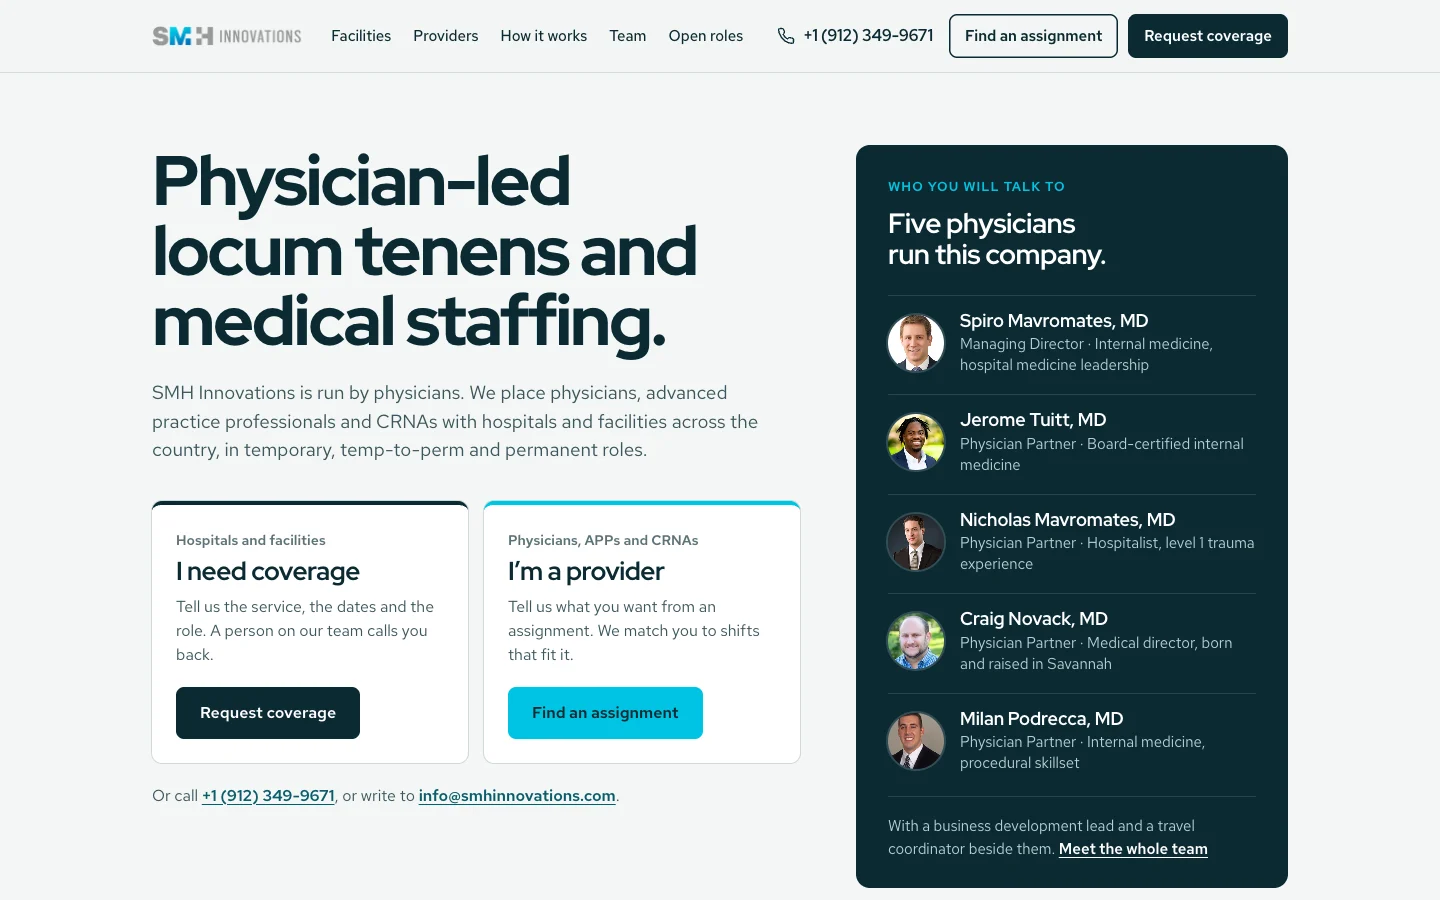
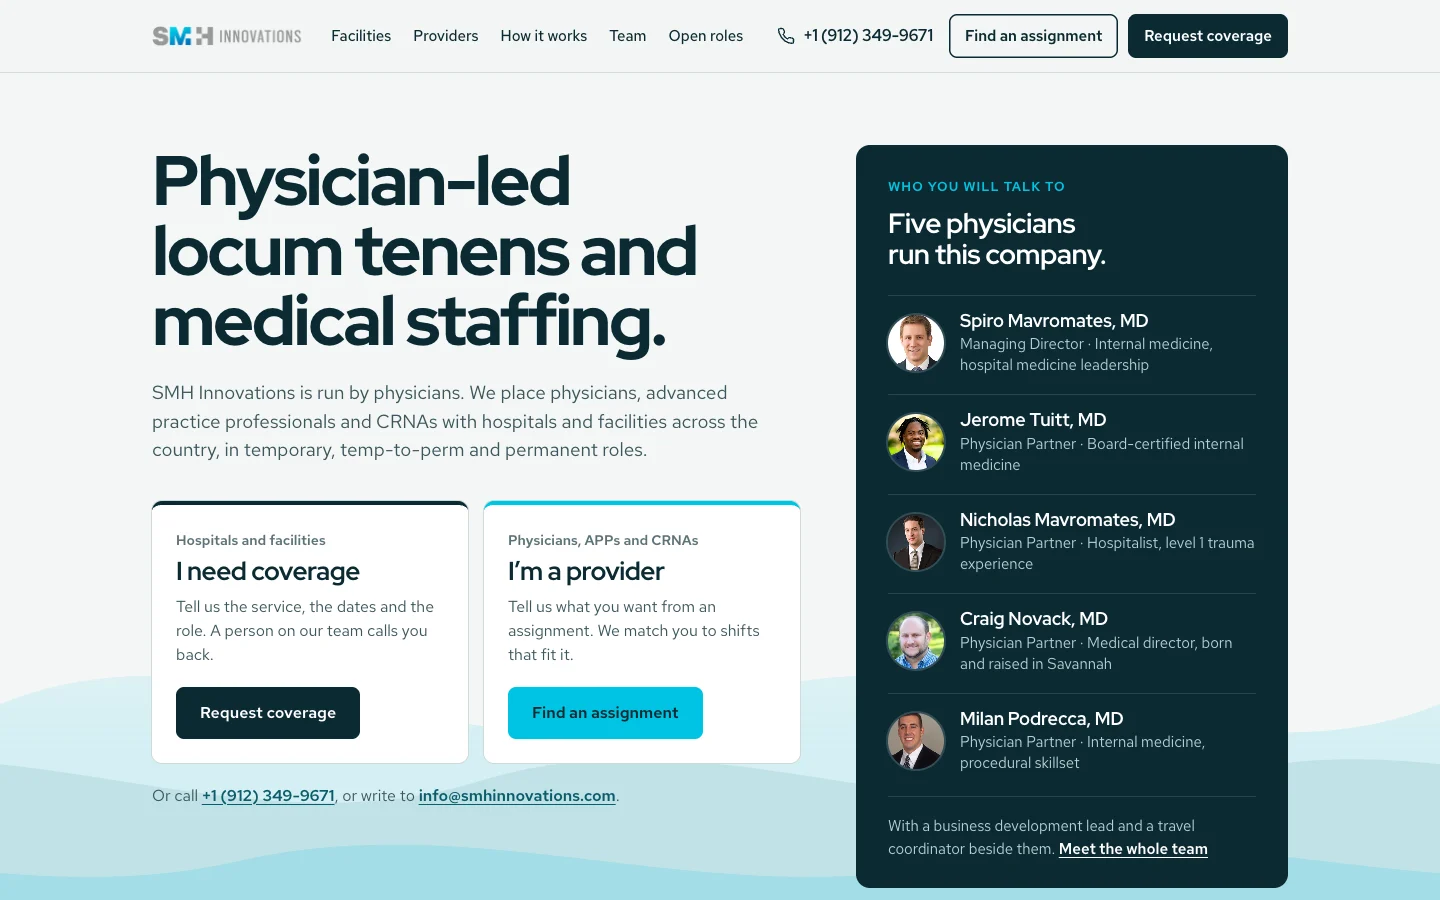
Add animated brand-colour waves behind the proposal hero

Changed region(s): [[0.0, 0.7467, 1.0, 1.0]]

diff --git a/audits/smhinnovations/site/site.css b/audits/smhinnovations/site/site.css
@@ -84,7 +84,17 @@ address { font-style: normal; }
 @media (max-width: 400px) { .header-phone span { font-size: 0.9375rem; } .logo img { width: 128px; } }
 
 /* hero */
-.hero { padding: 72px 0 0; }
+.hero { position: relative; padding: 72px 0 0; overflow: hidden; isolation: isolate; }
+.hero > .wrap { position: relative; z-index: 1; }
+/* Waves: three wide layers drifting at different speeds, fading out towards the headline. */
+.hero-waves { position: absolute; inset: auto 0 0 0; height: min(78%, 560px); z-index: 0; pointer-events: none;
+  -webkit-mask-image: linear-gradient(to bottom, transparent 0, #000 46%); mask-image: linear-gradient(to bottom, transparent 0, #000 46%); }
+.wave { position: absolute; left: 0; bottom: 0; width: 200%; height: 100%; will-change: transform; animation: wave-drift linear infinite; }
+.wave path { fill: currentColor; }
+.wave.w1 { color: rgb(0 196 227 / 0.13); animation-duration: 46s; }
+.wave.w2 { color: rgb(11 92 107 / 0.09); animation-duration: 64s; animation-direction: reverse; }
+.wave.w3 { color: rgb(0 196 227 / 0.16); animation-duration: 34s; }
+@keyframes wave-drift { from { transform: translate3d(0, 0, 0); } to { transform: translate3d(-50%, 0, 0); } }
 .hero-grid { display: grid; grid-template-columns: minmax(0, 1.2fr) minmax(0, 0.8fr); gap: 56px; align-items: stretch; }
 .hero h1 { font-size: clamp(2.5rem, 5.200vw, 4.375rem); font-weight: 800; letter-spacing: -0.035em; line-height: 1; max-width: 12em; }
 .standfirst { margin-top: 24px; max-width: 36em; font-size: 1.1875rem; line-height: 1.5; color: var(--ink-2); }
@@ -110,7 +120,7 @@ address { font-style: normal; }
 .roster-foot { margin-top: 8px; padding-top: 18px; border-top: 1px solid rgb(255 255 255 / 0.12); font-size: 0.9375rem; line-height: 1.5; color: #b9cfd4; }
 .roster-foot a { color: #fff; font-weight: 600; white-space: nowrap; }
 .roster-foot a:focus-visible { outline: 2px solid var(--cyan); outline-offset: 3px; }
-.facts { display: grid; grid-template-columns: repeat(4, minmax(0, 1fr)); margin-top: 64px; border-top: 1px solid var(--line); border-bottom: 1px solid var(--line); }
+.facts { display: grid; grid-template-columns: repeat(4, minmax(0, 1fr)); margin-top: 64px; padding: 0 24px; border-radius: var(--r) var(--r) 0 0; background: rgb(255 255 255 / 0.82); box-shadow: 0 0 0 1px var(--line); backdrop-filter: blur(6px); -webkit-backdrop-filter: blur(6px); }
 .facts > div { padding: 20px 24px 22px 0; }
 .facts > div + div { padding-left: 24px; border-left: 1px solid var(--line); }
 .facts dt { font-size: 0.875rem; color: var(--ink-3); }

diff --git a/audits/smhinnovations/site/App.tsx b/audits/smhinnovations/site/App.tsx
@@ -57,9 +57,39 @@ function Header() {
 /* ───────────────────────── Hero ───────────────────────── */
 
 
+/** One wave period is 720 units, so sliding a layer left by half its width loops without a seam. */
+function wavePath(mid: number, amp: number, phase: number): string {
+  const seg = 720
+  let d = `M${-phase},${mid}`
+  for (let x = -phase; x < 2880 + seg; x += seg) {
+    d += ` C${x + seg / 3},${mid - amp} ${x + (2 * seg) / 3},${mid + amp} ${x + seg},${mid}`
+  }
+  return `${d} V400 H${-phase} Z`
+}
+
+const WAVES = [
+  { mid: 150, amp: 70, phase: 0, cls: 'w1' },
+  { mid: 205, amp: 54, phase: 240, cls: 'w2' },
+  { mid: 262, amp: 40, phase: 480, cls: 'w3' },
+]
+
+/** Decorative: slow layered waves in the brand cyan and teal behind the first screen. Still under reduced motion. */
+function HeroWaves() {
+  return (
+    <div className="hero-waves" aria-hidden="true">
+      {WAVES.map((w) => (
+        <svg key={w.cls} className={`wave ${w.cls}`} viewBox="0 0 2880 400" preserveAspectRatio="none" focusable="false">
+          <path d={wavePath(w.mid, w.amp, w.phase)} />
+        </svg>
+      ))}
+    </div>
+  )
+}
+
 function Hero() {
   return (
     <section className="hero" id="top" aria-labelledby="hero-h">
+      <HeroWaves />
       <div className="wrap hero-grid">
         <div className="hero-copy">
           <h1 id="hero-h">{HERO.h1}</h1>
